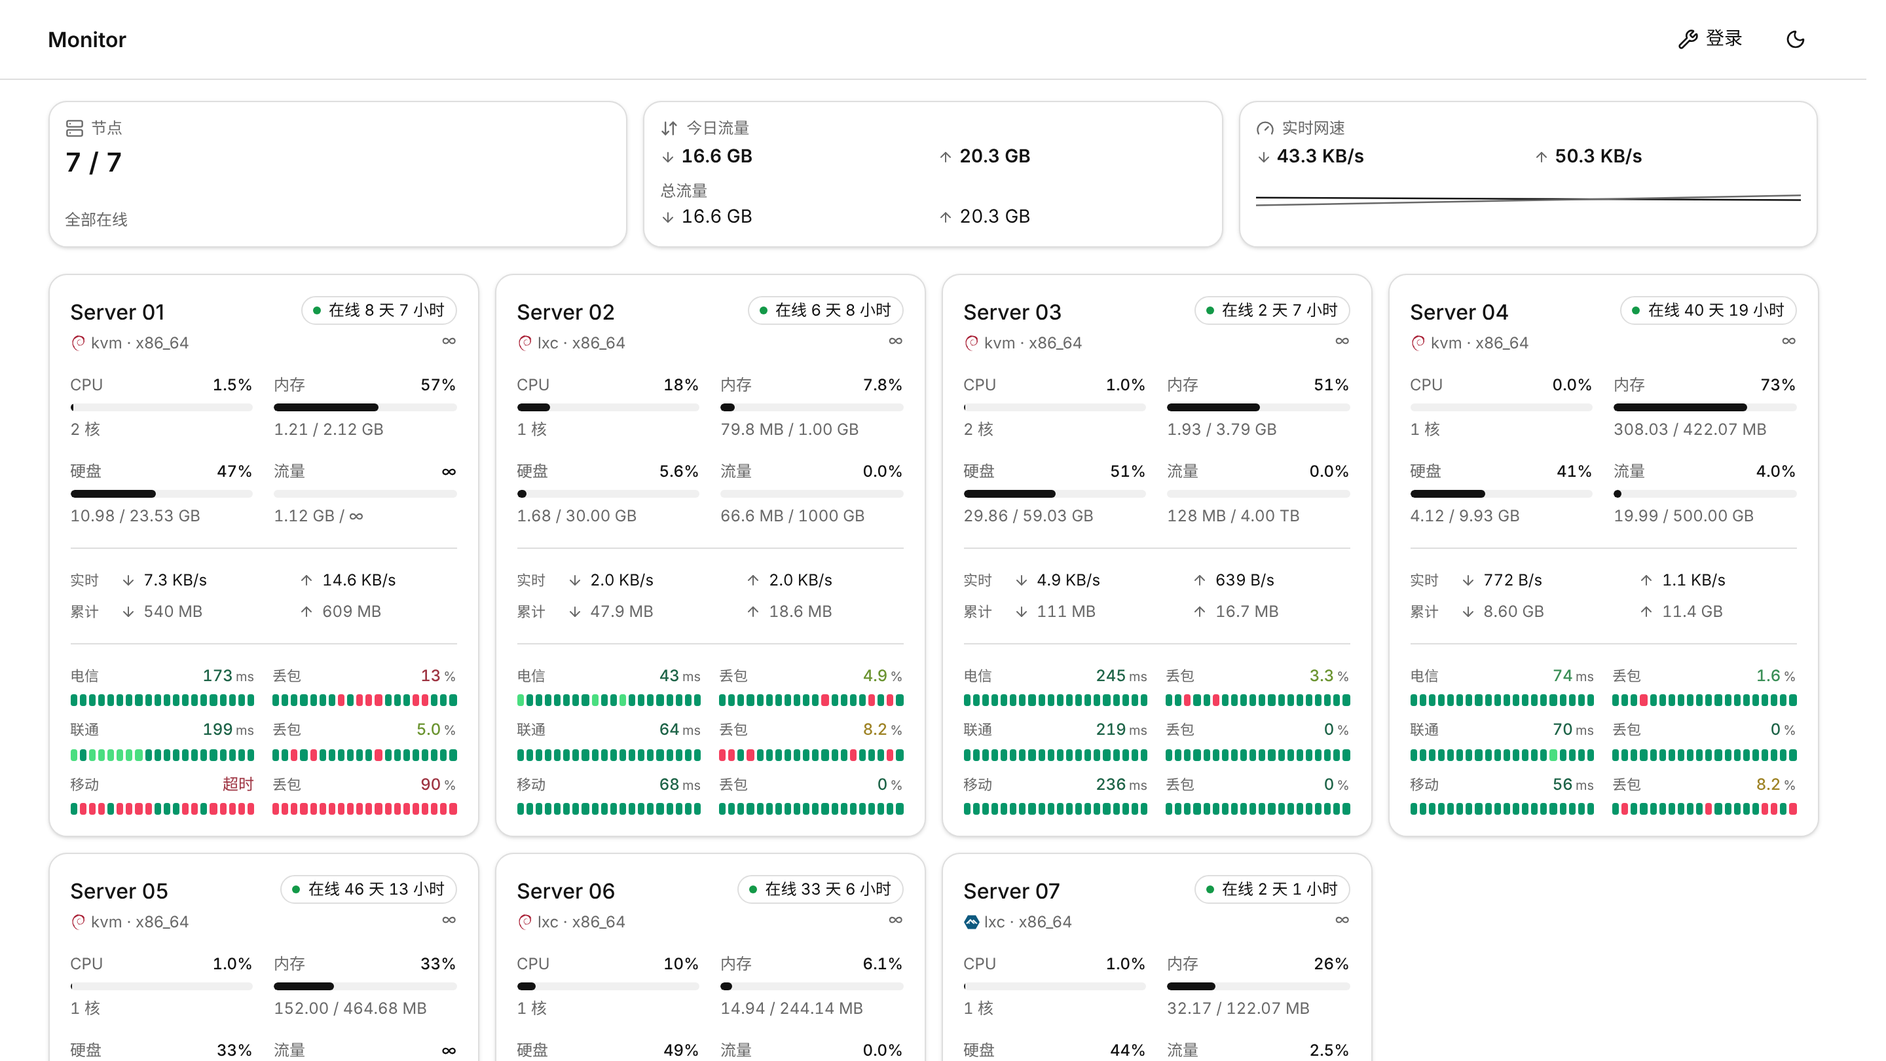
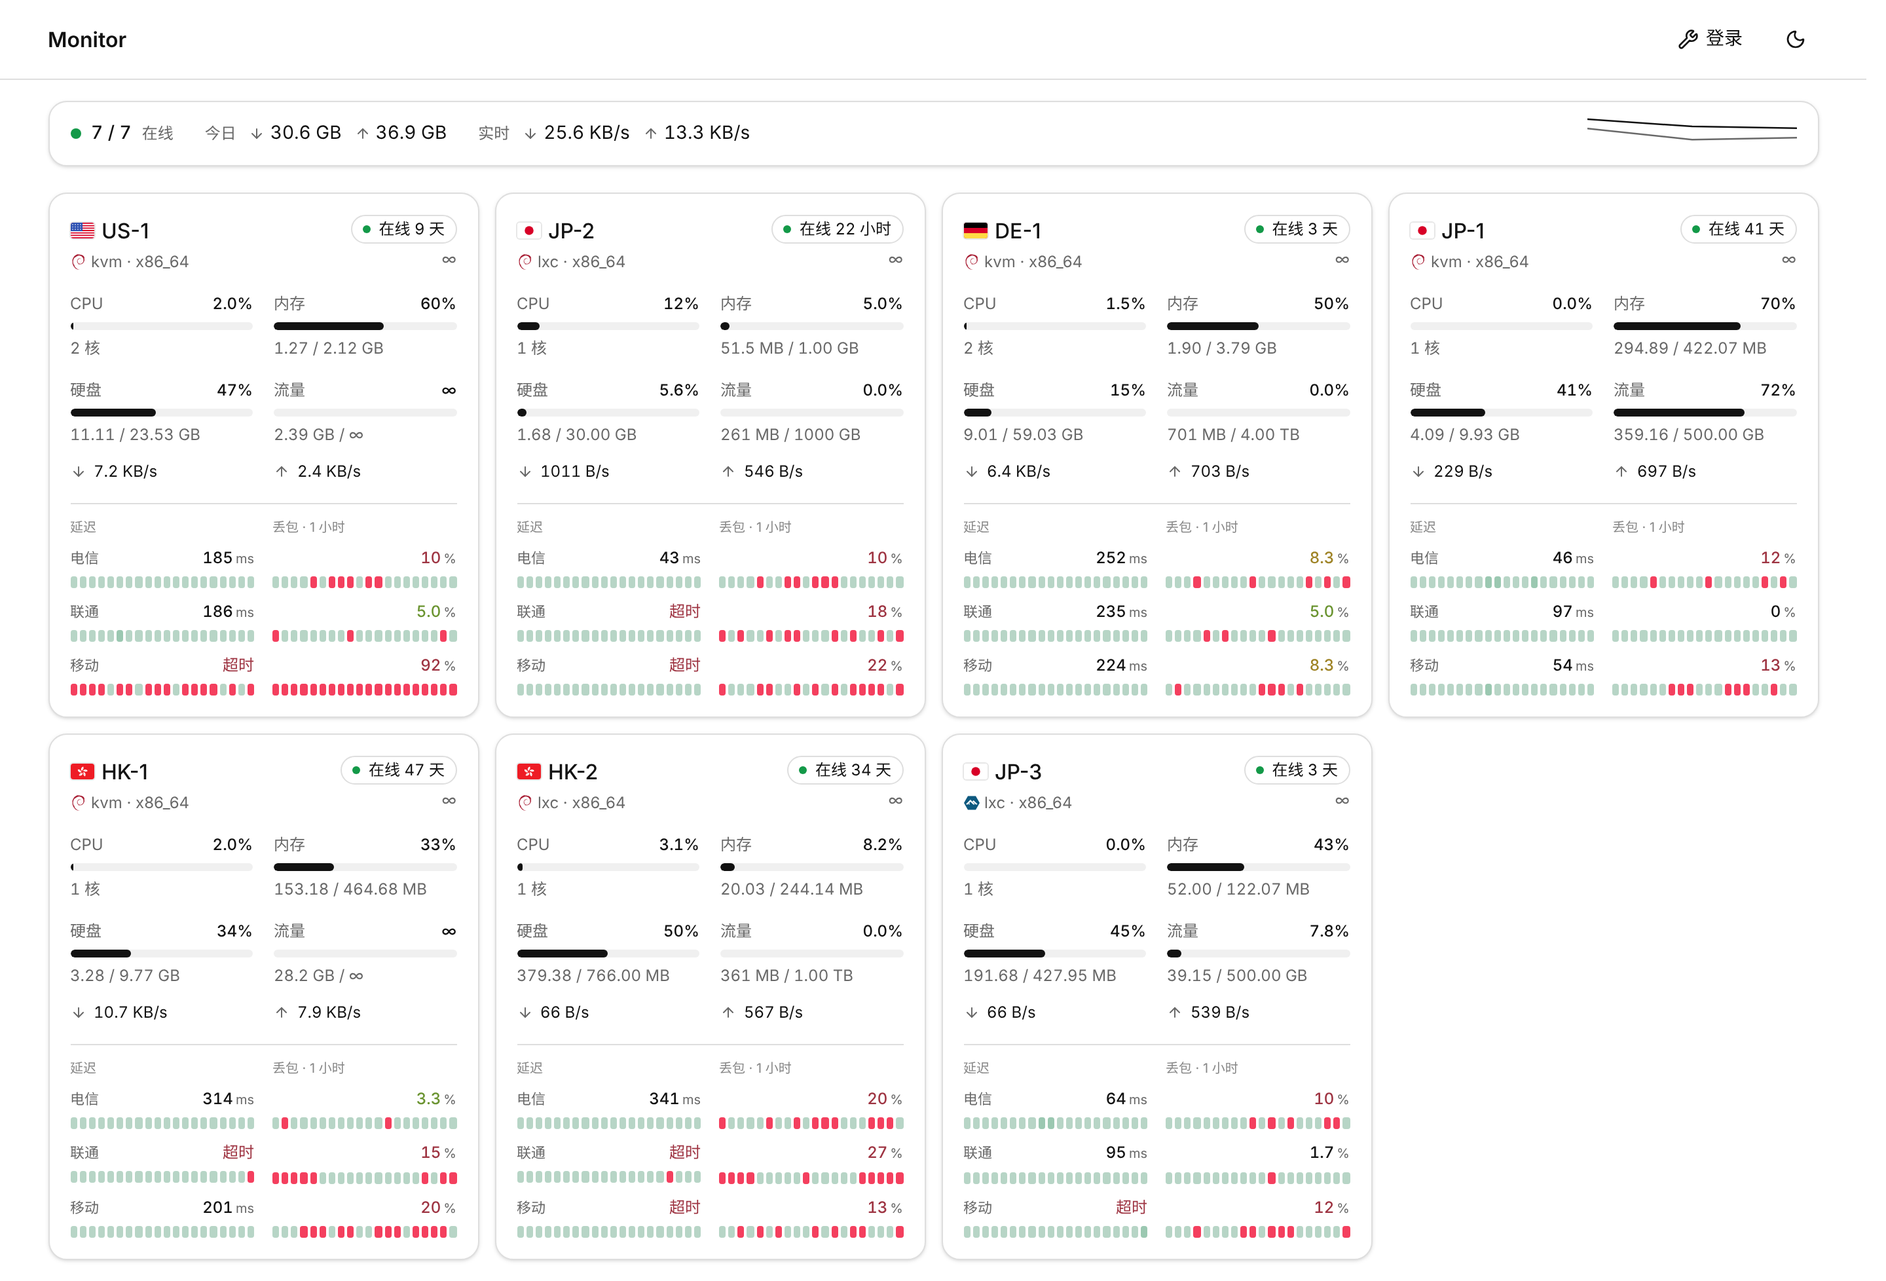
首页精简：汇总改横栏、去掉累计、延迟只给异常上色（1.2.0）
- Summary.tsx：三格汇总改成一条横栏（在线数 · 今日 · 实时 + 小折线），去掉总流量
- NodeCard.tsx：去掉「累计」行，实时网速改为进度条下面一行；卡片在线时长只显示最大单位
- PingPanel.tsx / ping.ts：1、2 档色块改淡绿、数字用普通文字色，3 档以上才上黄红；「丢包」改为顶部一行表头
- NodeDetail.tsx：硬盘图高度减半，纵轴三个刻度
- format.ts：新增 uptimeShort
- 版本 1.2.0，README 更新说明、更新记录和首页截图

diff --git a/src/components/Summary.tsx b/src/components/Summary.tsx
@@ -1,43 +1,9 @@
-import { ArrowDown, ArrowDownUp, ArrowUp, Gauge, Server } from "lucide-react"
+import { ArrowDown, ArrowUp } from "lucide-react"
 
 import { Card } from "@/components/ui/card"
 import { speedHistory, type Node } from "@/lib/api"
 import { bytes, rate } from "@/lib/format"
 import { cn } from "@/lib/utils"
-
-function Tile({ icon: Icon, label, children, className }: {
-  icon: typeof Server; label: string; children: React.ReactNode; className?: string
-}) {
-  return (
-    <Card className={cn("gap-0 p-3", className)}>
-      <div className="flex items-center gap-1.5 text-xs text-muted-foreground">
-        <Icon className="size-3.5" />
-        {label}
-      </div>
-      {children}
-    </Card>
-  )
-}
-
-/**
- * In and out side by side, the form every traffic figure on this page takes.
- * Stacked below sm, where two tiles share a phone's width and "23.3 MB" has
- * roughly 70px available.
- */
-function Flow({ down, up, className }: { down: string; up: string; className?: string }) {
-  return (
-    <div className={cn("tnum grid grid-cols-1 gap-x-2 sm:grid-cols-2", className)}>
-      <span className="inline-flex items-center gap-1">
-        <ArrowDown className="size-3 shrink-0 text-muted-foreground" />
-        {down}
-      </span>
-      <span className="inline-flex items-center gap-1">
-        <ArrowUp className="size-3 shrink-0 text-muted-foreground" />
-        {up}
-      </span>
-    </div>
-  )
-}
 
 /**
  * A bare polyline with no axes or tooltips: at this size only the shape is
@@ -48,7 +14,7 @@ function Spark({ series }: { series: { values: number[]; className: string }[] }
   const top = Math.max(...series.flatMap((s) => s.values), 1)
   const width = Math.max(...series.map((s) => s.values.length), 2) - 1
   return (
-    <svg viewBox="0 0 100 24" preserveAspectRatio="none" className="h-7 w-full" aria-hidden>
+    <svg viewBox="0 0 100 24" preserveAspectRatio="none" className="h-6 w-full" aria-hidden>
       {series.map((s, i) => (
         <polyline
           key={i}
@@ -64,41 +30,49 @@ function Spark({ series }: { series: { values: number[]; className: string }[] }
   )
 }
 
-/** `group` picks the throughput series: null for every node, else the tab's group. */
+/** A labelled pair of figures, one segment of the bar. */
+function Segment({ label, down, up, className }: { label: string; down: string; up: string; className?: string }) {
+  return (
+    <div className={cn("flex items-center gap-2.5", className)}>
+      <span className="text-xs text-muted-foreground">{label}</span>
+      <span className="inline-flex items-center gap-1">
+        <ArrowDown className="size-3 shrink-0 text-muted-foreground" />
+        {down}
+      </span>
+      <span className="inline-flex items-center gap-1">
+        <ArrowUp className="size-3 shrink-0 text-muted-foreground" />
+        {up}
+      </span>
+    </div>
+  )
+}
+
+/**
+ * One slim bar rather than three tiles: how many are up, today's traffic, the
+ * throughput now with its recent shape. Wraps to two lines on a phone.
+ * `group` picks the throughput series: null for every node, else the tab's group.
+ */
 export function Summary({ nodes, group }: { nodes: Node[]; group: string | null }) {
   const online = nodes.filter((n) => n.online)
+  const offline = nodes.length - online.length
   const sum = (pick: (n: Node) => number) => nodes.reduce((total, n) => total + pick(n), 0)
 
-  // The same push produced `nodes` and this sample, so the figure above the line
-  // is that line's last point.
+  // The same push produced `nodes` and this sample, so the figure is that
+  // line's last point.
   const history = speedHistory.get(group) ?? []
   const now = history.at(-1) ?? { rx: 0, tx: 0 }
 
   return (
-    <div className="grid grid-cols-2 gap-3 lg:grid-cols-3">
-      {/* Three tiles: on a phone the first takes the whole row so the pair below it stays level. */}
-      <Tile icon={Server} label="节点" className="col-span-2 lg:col-span-1">
-        <div className="tnum mt-1 text-xl font-semibold">
-          {online.length} / {nodes.length}
-        </div>
-        <div className="mt-auto pt-1 text-xs text-muted-foreground">
-          {nodes.length - online.length > 0 ? `${nodes.length - online.length} 个离线` : "全部在线"}
-        </div>
-      </Tile>
-
-      <Tile icon={ArrowDownUp} label="今日流量">
-        <Flow
-          down={bytes(sum((n) => n.day_rx))}
-          up={bytes(sum((n) => n.day_tx))}
-          className="mt-1 text-sm font-semibold"
-        />
-        <div className="mt-2 text-xs text-muted-foreground">总流量</div>
-        <Flow down={bytes(sum((n) => n.total_rx))} up={bytes(sum((n) => n.total_tx))} className="mt-0.5 text-sm" />
-      </Tile>
-
-      <Tile icon={Gauge} label="实时网速">
-        <Flow down={rate(now.rx)} up={rate(now.tx)} className="mt-1 text-sm font-semibold" />
-        <div className="mt-auto pt-1">
+    <Card className="tnum flex-row flex-wrap items-center gap-x-6 gap-y-2 px-4 py-3 text-sm">
+      <div className="flex items-center gap-2">
+        <span className={cn("size-2 rounded-full", offline ? "bg-offline" : "bg-online")} />
+        <span className="font-medium">{online.length} / {nodes.length}</span>
+        <span className="text-xs text-muted-foreground">{offline ? `${offline} 个离线` : "在线"}</span>
+      </div>
+      <Segment label="今日" down={bytes(sum((n) => n.day_rx))} up={bytes(sum((n) => n.day_tx))} />
+      <div className="flex min-w-0 flex-1 items-center gap-4">
+        <Segment label="实时" down={rate(now.rx)} up={rate(now.tx)} className="shrink-0" />
+        <div className="ml-auto w-24 min-w-0 sm:w-40">
           <Spark
             series={[
               { values: history.map((s) => s.rx), className: "text-foreground" },
@@ -106,7 +80,7 @@ export function Summary({ nodes, group }: { nodes: Node[]; group: string | null 
             ]}
           />
         </div>
-      </Tile>
-    </div>
+      </div>
+    </Card>
   )
 }

diff --git a/src/components/PingPanel.tsx b/src/components/PingPanel.tsx
@@ -17,6 +17,16 @@ function blockTitle(slot: Slot, metric: "latency" | "loss") {
   return `${clock(slot.ts)} · ${slot.latency === null ? "超时" : `${fmtMs(slot.latency)} ms`}`
 }
 
+/**
+ * Colour is kept for trouble: the two healthy steps sit as a faint green over
+ * the muted track, so a glance down the page lands on the few blocks that are
+ * yellow or red rather than on hundreds of green ones.
+ */
+export const blockFill = (step: number) =>
+  step === 0 ? "var(--muted)"
+    : step <= 2 ? `color-mix(in oklab, var(--signal-1) ${step === 1 ? 30 : 45}%, var(--muted))`
+      : `var(--signal-${step})`
+
 /** A row of blocks, one per slot of the window, coloured by its step. */
 export function Blocks({ slots, metric, typical, className }: {
   slots: Slot[]; metric: "latency" | "loss"; typical: number | null; className?: string
@@ -35,7 +45,7 @@ export function Blocks({ slots, metric, typical, className }: {
             key={i}
             title={blockTitle(slot, metric)}
             className="rounded-[2px]"
-            style={{ background: step ? `var(--signal-${step})` : "var(--muted)" }}
+            style={{ background: blockFill(step) }}
           />
         )
       })}
@@ -86,25 +96,30 @@ export function PingPanel({ node, options }: { node: Node; options: PingOptions 
   if (!probes.length) return null
 
   return (
-    <div className="mt-4 space-y-2.5 border-t pt-4 text-[11px] leading-tight">
-      {probes.map((p) => (
-        <div key={p.id} className="grid grid-cols-2 gap-3.5" title={p.name}>
-          <div className="min-w-0">
-            <div className="mb-1.5 flex items-baseline justify-between gap-1.5">
-              <span className="truncate text-muted-foreground">{p.name}</span>
-              <LatencyValue probe={p} className="text-xs" />
+    <div className="mt-4 border-t pt-3 text-[11px] leading-tight">
+      <div className="mb-2 grid grid-cols-2 gap-3.5 text-[10px] text-muted-foreground/80">
+        <span>延迟</span>
+        <span title={`近 ${hours} 小时丢包率`}>丢包 · {hours} 小时</span>
+      </div>
+      <div className="space-y-2.5">
+        {probes.map((p) => (
+          <div key={p.id} className="grid grid-cols-2 gap-3.5" title={p.name}>
+            <div className="min-w-0">
+              <div className="mb-1.5 flex items-baseline justify-between gap-1.5">
+                <span className="truncate text-muted-foreground">{p.name}</span>
+                <LatencyValue probe={p} className="text-xs" />
+              </div>
+              <Blocks slots={p.slots} metric="latency" typical={p.typical} className="h-[9px]" />
             </div>
-            <Blocks slots={p.slots} metric="latency" typical={p.typical} className="h-[9px]" />
-          </div>
-          <div className="min-w-0">
-            <div className="mb-1.5 flex items-baseline justify-between gap-1.5">
-              <span className="text-muted-foreground" title={`近 ${hours} 小时丢包率`}>丢包</span>
-              <LossValue probe={p} className="text-xs" />
+            <div className="min-w-0">
+              <div className="mb-1.5 flex items-baseline justify-end gap-1.5">
+                <LossValue probe={p} className="text-xs" />
+              </div>
+              <Blocks slots={p.slots} metric="loss" typical={null} className="h-[9px]" />
             </div>
-            <Blocks slots={p.slots} metric="loss" typical={null} className="h-[9px]" />
           </div>
-        </div>
-      ))}
+        ))}
+      </div>
     </div>
   )
 }

diff --git a/src/components/NodeCard.tsx b/src/components/NodeCard.tsx
@@ -10,7 +10,7 @@ import { Card } from "@/components/ui/card"
 import { Meter } from "@/components/Meter"
 import { PingPanel, type PingOptions } from "@/components/PingPanel"
 import type { Node } from "@/lib/api"
-import { bytes, daysUntil, FOREVER, osName, pair, percent, rate, sinceSeen, uptime } from "@/lib/format"
+import { bytes, daysUntil, FOREVER, osName, pair, percent, rate, sinceSeen, uptime, uptimeShort } from "@/lib/format"
 import { cn } from "@/lib/utils"
 
 // Emitted as files and fetched on first use, so a page carries only the flags its
@@ -69,12 +69,13 @@ function deployed(node: Node) {
  * has been absent -- the first question asked of an offline node. Both are
  * durations, so the badge keeps its shape either way.
  */
-export function Status({ node }: { node: Node }) {
+export function Status({ node, short = false }: { node: Node; short?: boolean }) {
   const down = sinceSeen(node)
+  const span = short ? uptimeShort : uptime
   const label = node.online
-    ? `在线 ${node.metrics ? uptime(node.metrics.uptime) : ""}`
+    ? `在线 ${node.metrics ? span(node.metrics.uptime) : ""}`
     : deployed(node)
-      ? `离线 ${down >= 60 ? uptime(down) : ""}`
+      ? `离线 ${down >= 60 ? span(down) : ""}`
       : "未接入"
   return (
     // Muted once it stops reporting: the figures on the page are genuine, merely
@@ -197,7 +198,7 @@ export function NodeCard({ node, onOpen, ping }: { node: Node; onOpen: () => voi
         </div>
         {/* State right, identity left, one line each. */}
         <div className="flex shrink-0 flex-col items-end gap-1">
-          <Status node={node} />
+          <Status node={node} short />
           <Expiry node={node} />
         </div>
       </div>
@@ -234,24 +235,16 @@ export function NodeCard({ node, onOpen, ping }: { node: Node; onOpen: () => voi
             />
           </div>
 
-          <div className="mt-4 grid grid-cols-[auto_1fr_1fr] items-center gap-x-4 gap-y-2 border-t pt-4 text-xs">
-            <span className="text-[11px] text-muted-foreground" title="此刻的网速">实时</span>
-            <span className="tnum inline-flex items-center gap-1.5">
+          {/* Live throughput, one quiet line aligned under the meters' two
+              columns. The month's usage is on the 流量 bar above. */}
+          <div className="tnum mt-3 grid grid-cols-2 gap-x-4 text-xs" title="此刻的网速">
+            <span className="inline-flex items-center gap-1.5">
               <ArrowDown className="size-3 text-muted-foreground" />
               {m ? rate(m.net_rx) : "—"}
             </span>
-            <span className="tnum inline-flex items-center gap-1.5">
+            <span className="inline-flex items-center gap-1.5">
               <ArrowUp className="size-3 text-muted-foreground" />
               {m ? rate(m.net_tx) : "—"}
-            </span>
-            <span className="text-[11px] text-muted-foreground" title="累计总流量">累计</span>
-            <span className="tnum inline-flex items-center gap-1.5 text-muted-foreground">
-              <ArrowDown className="size-3" />
-              {bytes(node.total_rx)}
-            </span>
-            <span className="tnum inline-flex items-center gap-1.5 text-muted-foreground">
-              <ArrowUp className="size-3" />
-              {bytes(node.total_tx)}
             </span>
           </div>
 

diff --git a/src/components/NodeDetail.tsx b/src/components/NodeDetail.tsx
@@ -99,14 +99,14 @@ const TABS = [
   { key: "latency", label: "网络延迟" },
 ] as const
 
-function Panel({ title, legend, children }: { title: string; legend?: React.ReactNode; children: React.ReactNode }) {
+function Panel({ title, legend, children, short = false }: { title: string; legend?: React.ReactNode; children: React.ReactNode; short?: boolean }) {
   return (
     <div>
       <div className="mb-2 flex flex-wrap items-center justify-between gap-x-4 gap-y-1">
         <h4 className="text-xs font-medium text-muted-foreground">{title}</h4>
         {legend}
       </div>
-      <div className="h-40 w-full text-muted-foreground">{children}</div>
+      <div className={`${short ? "h-20" : "h-40"} w-full text-muted-foreground`}>{children}</div>
     </div>
   )
 }
@@ -424,12 +424,12 @@ export function NodeDetail({ node, historyDays }: { node: Node; historyDays: num
           {/* The disk it is filling, for the same reason as memory: a node
               using 2.7% of its disk draws along the top of the panel when the
               axis tracks the window's own maximum. */}
-          <Panel title={`硬盘 · ${bytes(node.disk_total)}`}>
+          <Panel title={`硬盘 · ${bytes(node.disk_total)}`} short>
             <ResponsiveContainer>
               <AreaChart data={chartRows} margin={CHART_MARGIN}>
                 <CartesianGrid strokeDasharray="3 3" className="stroke-border" vertical={false} />
                 <XAxis {...timeAxis(chartRows)} />
-                <YAxis domain={[0, node.disk_total]} ticks={quarters(node.disk_total)} tickFormatter={axisBytes} {...VALUE_AXIS} />
+                <YAxis domain={[0, node.disk_total]} ticks={[0, node.disk_total / 2, node.disk_total]} tickFormatter={axisBytes} {...VALUE_AXIS} />
                 <Tooltip {...TOOLTIP} formatter={(v) => bytes(Number(v))} />
                 <Area dataKey="disk_used" name="硬盘" stroke="var(--color-chart-2)" fill="var(--color-chart-2)" fillOpacity={0.15} {...RESOURCE_SERIES} />
               </AreaChart>

diff --git a/src/lib/ping.ts b/src/lib/ping.ts
@@ -185,7 +185,7 @@ export function latencySignal(ms: number | null, typical: number | null): number
 
 /** A figure's ink: the step's colour, pulled toward the text so it stays readable. */
 export const signalText = (step: number) =>
-  step ? `color-mix(in oklab, var(--signal-${step}) 65%, var(--foreground))` : "var(--muted-foreground)"
+  step === 0 ? "var(--muted-foreground)" : step <= 2 ? "var(--foreground)" : `color-mix(in oklab, var(--signal-${step}) 65%, var(--foreground))`
 
 export const fmtMs = (ms: number) => (ms < 10 ? ms.toFixed(1) : Math.round(ms).toString())
 export const fmtLoss = (pct: number) => (pct === 0 ? "0" : pct < 0.1 ? "<0.1" : pct < 10 ? pct.toFixed(1) : Math.round(pct).toString())

diff --git a/src/lib/format.ts b/src/lib/format.ts
@@ -63,6 +63,15 @@ export function uptime(seconds: number): string {
   return d > 0 ? `${d} 天 ${h} 小时` : h > 0 ? `${h} 小时 ${m} 分` : `${m} 分`
 }
 
+/** Uptime in its largest unit only, for the card badge where width is scarce. */
+export function uptimeShort(seconds: number): string {
+  if (!seconds) return "—"
+  const d = Math.floor(seconds / 86400)
+  const h = Math.floor(seconds / 3600)
+  const m = Math.floor(seconds / 60)
+  return d > 0 ? `${d} 天` : h > 0 ? `${h} 小时` : `${m} 分`
+}
+
 /** Whole days until a date, negative once it has passed. */
 export function daysUntil(date?: string | null): number | null {
   if (!date) return null

diff --git a/README.md b/README.md
@@ -46,7 +46,7 @@
 - **延迟数字**：最新一个采样桶的中位数；最新一桶全部超时就显示「超时」。
 - **丢包率**：hub 按整个窗口算好的丢包率（接口返回的 `loss`），不用每桶百分比自己平均，否则会算错。
 - **平均 / 波动**（详情页）：窗口内各桶中位数的平均值、最低值和最高值。
-- **色块**（首页卡片）：把窗口平均切成 20 格，每格取落在里面的采样：延迟取平均，全部超时记为最差；丢包取平均。没有采样的格子显示为灰色。
+- **色块**（首页卡片）：把窗口平均切成 20 格，每格取落在里面的采样：延迟取平均，全部超时记为最差；丢包取平均。没有采样的格子显示为灰色。正常的两档（1、2 档）用很淡的绿色，数字也用普通文字色；只有 3 档以上才上黄、红，一眼看到的颜色就是有问题的地方。
 - **颜色分五档**，1 最好、5 最差：
   - **丢包**看数字本身，阈值沿用 Glassmorphism：≤ 1%、≤ 3%、≤ 6%、≤ 9% 依次为 1 到 4 档，更高为 5 档（红）。
   - **延迟**和这条线自己的常态比，不看绝对毫秒。常态是窗口内各桶中位数的中位数；高出常态的比例（再除以常态，常态低于 30 ms 按 30 ms 算）≤ 25%、≤ 60%、≤ 120%、≤ 200% 依次为 1 到 4 档，更高为 5 档。超时一律 5 档。这样从国内测美国、德国，二三百毫秒是正常的，整条不会一片红，只有明显比平时慢才变色。
@@ -56,6 +56,13 @@
 
 ## 更新记录
 
+- **1.2.0**（2026-10-17）：首页精简。
+  - 顶部汇总三格压成一条横栏：在线数 · 今日流量 · 实时网速 + 小折线，去掉「总流量」；手机上折成两行。
+  - 节点卡片去掉「累计」一行（本月用量看「流量」进度条），实时网速改成进度条下面一行，不再单独成块。
+  - 卡片上的在线时长只显示最大单位（「47 天」「21 小时」），长名字不再被挤得截断；详情页仍是完整时长。
+  - 延迟区：正常的色块和数字不再上绿色，只有偏高、丢包、超时才显示黄 / 红；「丢包」不再每行重复，改成顶部一行表头。
+  - 详情页硬盘图高度减半。
+  - 首页截图更新。
 - **1.1.2**（2026-10-17）：延迟曲线的纵轴和刻度按每条线路自己的数据自适应，「线路质量」柱高按每行自己的最低 / 最高算。1.1.0 照参考实现把纵轴写死在 130–230 ms，几十毫秒的线路全被压到下限，曲线成了一条直线。
 - **1.1.1**（2026-10-17）：延迟曲线画出全部测试（1.1.0 只画了排在最前的电信 v4 / v6）；README 详情页截图换成新界面。
 - **1.1.0**（2026-10-17）：详情页「网络延迟」改版，照 `probe-redesign-reference.html` 搬渲染和交互（`src/lib/probeRedesign.js`），只重写数据层（`src/lib/probeData.ts`）。原来的线路列表（延迟 / 丢包两排色块）、叠线延迟图和拖选条、削峰开关去掉。数据层把 hub 的记录铺成每分钟：最近 24 小时用 1 分钟桶，7 天内用 7 分钟桶，更早用小时汇总；粗桶按 band 和丢包率展开到每分钟。30 天档的丢包读的是小时汇总（hub 已向上取整），可能偏高最多约 1 个百分点。首页卡片不变。
